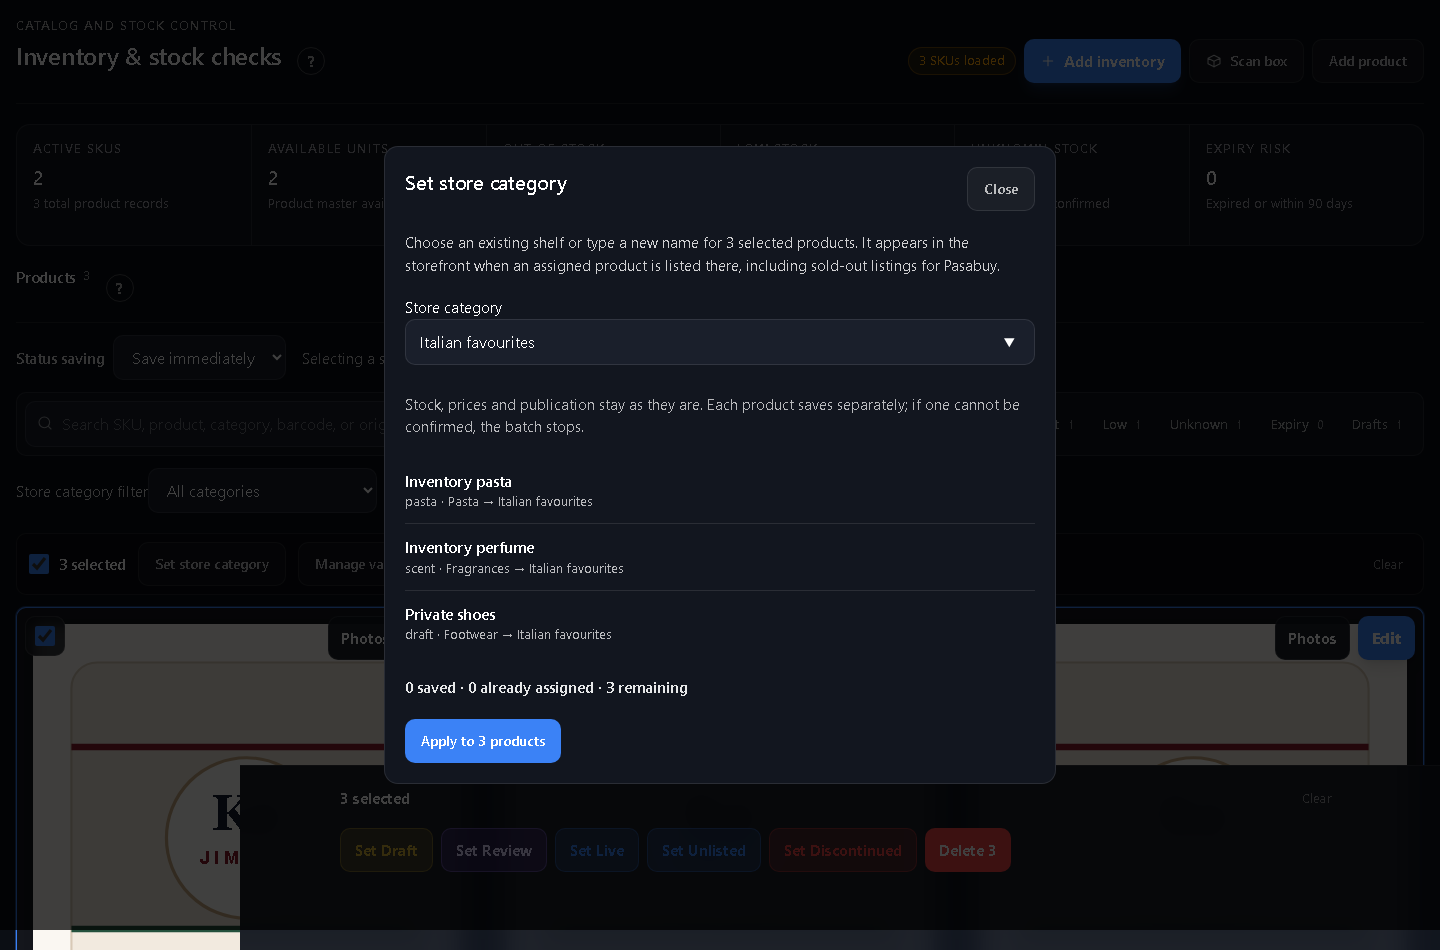
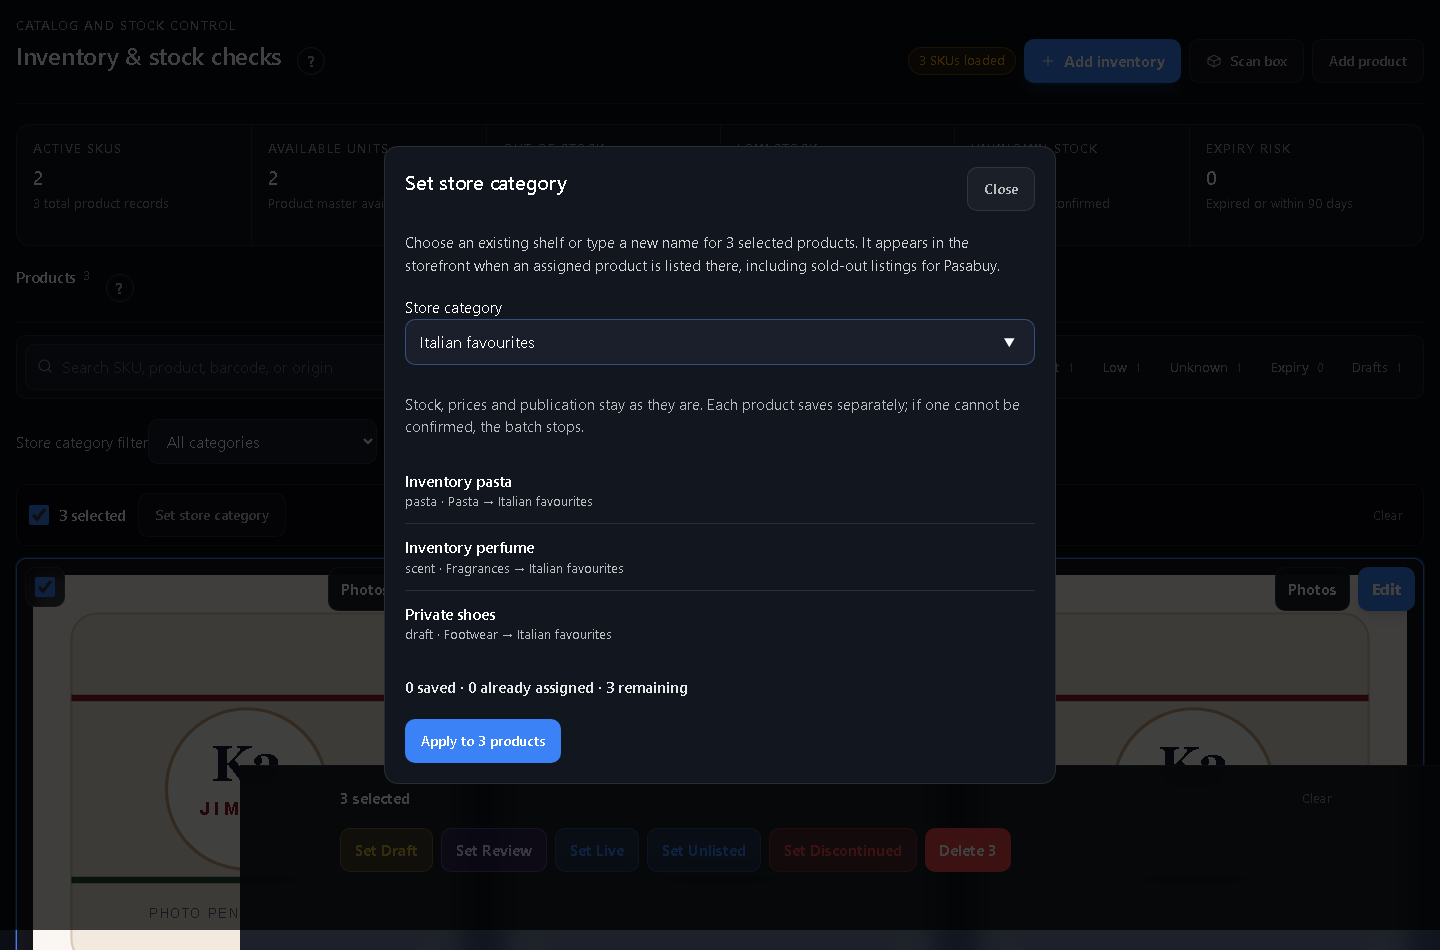
fix(release): Preserve deployed Admin knowledge behavior
Carry the exact already-live a68d8857 Product Knowledge normalization and provenance changes into the category-only production integration. Refs MAP-023.

diff --git a/tests/map027-product-knowledge-persistence.spec.js b/tests/map027-product-knowledge-persistence.spec.js
@@ -68,11 +68,11 @@ test('priming replaces the snapshot so unapproved copy actually disappears', () 
 test('the save command accepts an exact record and rejects everything else', () => {
   const valid = validateProductKnowledgeCommand('product_knowledge_save', {
     sku: 'caffe-milano-gold',
-    fields: [{ key: 'uses', status: 'approved', value: 'Espresso.', provenance: { source: 'generated-edited' } }],
+    fields: [{ key: 'uses', status: 'approved', value: 'Espresso.', provenance: { source: 'generated-edited', contract: 'k2.product-content.v3' } }],
     faqs: [{ question: 'Ground?', answer: 'No.', status: 'approved', provenance: {} }],
   })
   expect(valid.fields[0]).toEqual({
-    key: 'uses', status: 'approved', value: 'Espresso.', provenance: { source: 'generated-edited' },
+    key: 'uses', status: 'approved', value: 'Espresso.', provenance: { source: 'generated-edited', contract: 'k2.product-content.v3' },
   })
 
   const reject = body => expect(() => validateProductKnowledgeCommand('product_knowledge_save', body)).toThrow('REQUEST_INVALID')
@@ -93,6 +93,8 @@ test('the save command accepts an exact record and rejects everything else', () 
     faqs: [],
   })
   reject({ sku: 'a', fields: [], faqs: [{ question: 'q', answer: '', status: 'approved', provenance: {} }] })
+  reject({ sku: 'a', fields: [{ key: 'uses', status: 'draft', value: 'x', provenance: { extra: 'not allowed' } }], faqs: [] })
+  reject({ sku: 'a', fields: [{ key: 'uses', status: 'draft', value: 'x', provenance: { contract: 'x'.repeat(201) } }], faqs: [] })
   reject({
     sku: 'a',
     fields: Array.from({ length: 21 }, (_, index) => ({

diff --git a/src/lib/storeAssetPlan.js b/src/lib/storeAssetPlan.js
@@ -54,8 +54,8 @@ export const STORE_ASSETS = Object.freeze([
   { key: 'pairings', label: 'Goes well with', required: false, source: 'usage.pairings' },
   { key: 'preparation', label: 'How to prepare it', required: false, source: 'usage.instructions' },
   { key: 'storage', label: 'Storage', required: false, source: 'usage.storage' },
-  { key: 'seoTitle', label: 'SEO title', required: false, source: 'seo.seo_title' },
-  { key: 'metaDescription', label: 'Meta description', required: false, source: 'seo.meta_description' },
+  { key: 'seo_title', label: 'SEO title', required: false, source: 'seo.seo_title' },
+  { key: 'meta_description', label: 'Meta description', required: false, source: 'seo.meta_description' },
   { key: 'faqs', label: 'Customer questions', required: false, source: 'usage.use_cases' },
 ])
 
@@ -236,9 +236,9 @@ function valueForAsset(key, research) {
     }
     case 'storage':
       return text(usage.storage)
-    case 'seoTitle':
+    case 'seo_title':
       return text(seo.seo_title)
-    case 'metaDescription':
+    case 'meta_description':
       return text(seo.meta_description)
     default:
       return ''

diff --git a/tests/map027-store-polish.spec.js b/tests/map027-store-polish.spec.js
@@ -217,7 +217,7 @@ test('the asset queue is derived from inventory and ranks what customers can see
   const withPhotos = catalog.map((entry) => ({ ...entry, img: '/images/mock/pack.jpg' }))
   const complete = planStoreAssets(withPhotos, () => selectPublicKnowledge({
     fields: Object.fromEntries(
-      ['description', 'uses', 'pairings', 'preparation', 'storage', 'seoTitle', 'metaDescription']
+      ['description', 'uses', 'pairings', 'preparation', 'storage', 'seo_title', 'meta_description']
         .map(key => [key, { status: KNOWLEDGE_STATUS.APPROVED, value: 'written' }]),
     ),
     faqs: [{ status: KNOWLEDGE_STATUS.APPROVED, question: 'Q', answer: 'A' }],

diff --git a/server/admin-bff/product-knowledge.js b/server/admin-bff/product-knowledge.js
@@ -40,9 +40,9 @@ function status(value) {
  */
 function provenance(value) {
   if (value === undefined || value === null) return {}
-  exactObject(value, ['source', 'model', 'generatedAt', 'approvedBy', 'approvedAt'])
+  exactObject(value, ['source', 'model', 'generatedAt', 'contract', 'approvedBy', 'approvedAt'])
   const out = {}
-  for (const key of ['source', 'model', 'generatedAt', 'approvedBy', 'approvedAt']) {
+  for (const key of ['source', 'model', 'generatedAt', 'contract', 'approvedBy', 'approvedAt']) {
     const text = boundedText(value[key], { max: 200 })
     if (text) out[key] = text
   }

diff --git a/MASTER_ACTION_PLAN.md b/MASTER_ACTION_PLAN.md
@@ -176,6 +176,8 @@ The source-release action has been removed after durable evidence; the remaining
 
 ### MAP-023: Finish real order, payment and fulfillment cycles
 
+22 October release continuation: browser access is restored after owner restart; existing signed-in Inventory shows196SKUs. Preserve the exact already-live Admin a68d8857 Product Knowledge source fix when promoting the category candidate from older main. Independent category review has no Critical/Important finding; final combined-candidate development/release gates and both live artifacts remain. Nonblocking follow-up: replace the Inventory category filter literal Unassigned sentinel so a real shelf of that name can be selected; no canonical/product mutation is involved. No product data change or live promotion has occurred yet.
+
 22 October 2026 / owner-authorized category production release IN PROGRESS: the owner said proceed after the confirmed feature-only deployment gap. This authorizes the scoped category-only current-main integration, production main push and both existing Vercel artifacts. Original main is5f700020f313d481407a4bc76a7e3d3e2f613781. Unrelated bdc6d8d changes are excluded. Focused9Node and11rendered checks pass; independent review and final development/release gates remain. No database/provider setting, product/stock/price/review/publication change is authorized by source release. Browser use is disabled in Work settings; owner was asked to enable it while independent checks continue. Preserve previous deployments and pending original requests. Evidence/recovery: docs/acceptance/CATEGORY_PRODUCTION_RELEASE_20261022.md. Exact next: complete review and gates, promote scoped source, verify both artifact targets and actual category behavior, then independently eligible listing work with existing product-specific holds.
 
 22 October 2026 / MAP-023 / IDEA-20261022-01 — CURRENT owner-requested commit/push and all-inventory listing audit. Prepare and push the category-only change on codex/inventory-categories from the committed feature baseline, preserving unrelated unfinished work. Fresh K2 identity/readiness passes 9 verified/2 owner/3 connector/0 blocked. Read-only audit at 2026-10-22T05:36:32.786Z: 196 products/93 Live and Website-published/103 Draft, zero Live membership gaps, zero Drafts with all publication fields. Missing counts overlap: 97 primary photos, 34 brands/categories, 33 prices, 103 human reviews. No unsupported publication or stock change is authorized. Remaining: resolve exact per-SKU evidence/human acceptance and verify through normal Admin and public readback; browser is currently disabled. Main promotion and both artifact deployment checks remain separate. Evidence, source boundary, recovery and exact next action: docs/acceptance/CATEGORY_PUSH_AND_LISTING_AUDIT_20261022.md/.json.

diff --git a/docs/acceptance/CATEGORY_PRODUCTION_RELEASE_20261022.md b/docs/acceptance/CATEGORY_PRODUCTION_RELEASE_20261022.md
@@ -9,3 +9,11 @@ Focused evidence on the current-main integration: node --test tests/store-catego
 Fresh exact-K2 identity passed. Browser inventory reports local browser use disabled in Work settings; owner access request is pending. Do not substitute local synthetic rendering or provider metadata for real hosted staff/browser acceptance. No production promotion or product mutation has occurred at this checkpoint.
 
 Remaining action: independent source review, final development and single complete release gate, scoped commit/main push, both existing Vercel artifacts and public category checks, then independently eligible listing work under existing product-specific holds. Preserve original dirty checkout. Source recovery is a reviewed revert of this category slice or restoration of the previous verified production deployment; no database restore or replay of business decisions. Keep all pending original actor/body/key records.
+
+## Integration review and preserved live Admin behavior
+
+Independent review of5f70002..aaecac6 found no Critical/Important issue. Public K2 product GET with categories(id,name) and Website membership GET both returned200, confirming93listed products and15populated shelves. One nonblocking filter-sentinel collision for a category literally named Unassigned remains recorded in MAP-023.
+
+The currently deployed Admin is a68d8857, separately ahead of main. To preserve that already-live behavior, this candidate also includes only its exact two application files and three associated test-file deltas: Product Knowledge provenance accepts the bounded contract field, and Store Assets uses canonical seo_title/meta_description keys. No prior data/SQL/apply records are replayed. Focused normalization tests pass2/2. Full release qualification applies to this combined category plus existing-Admin-behavior candidate.
+
+After the owner restarted ChatGPT, the exact existing Inventory tab became accessible and showed196SKUs loaded. Earlier browser-disabled entries are historical; actual post-release browser checks can now proceed. No new sign-in or credential change.
